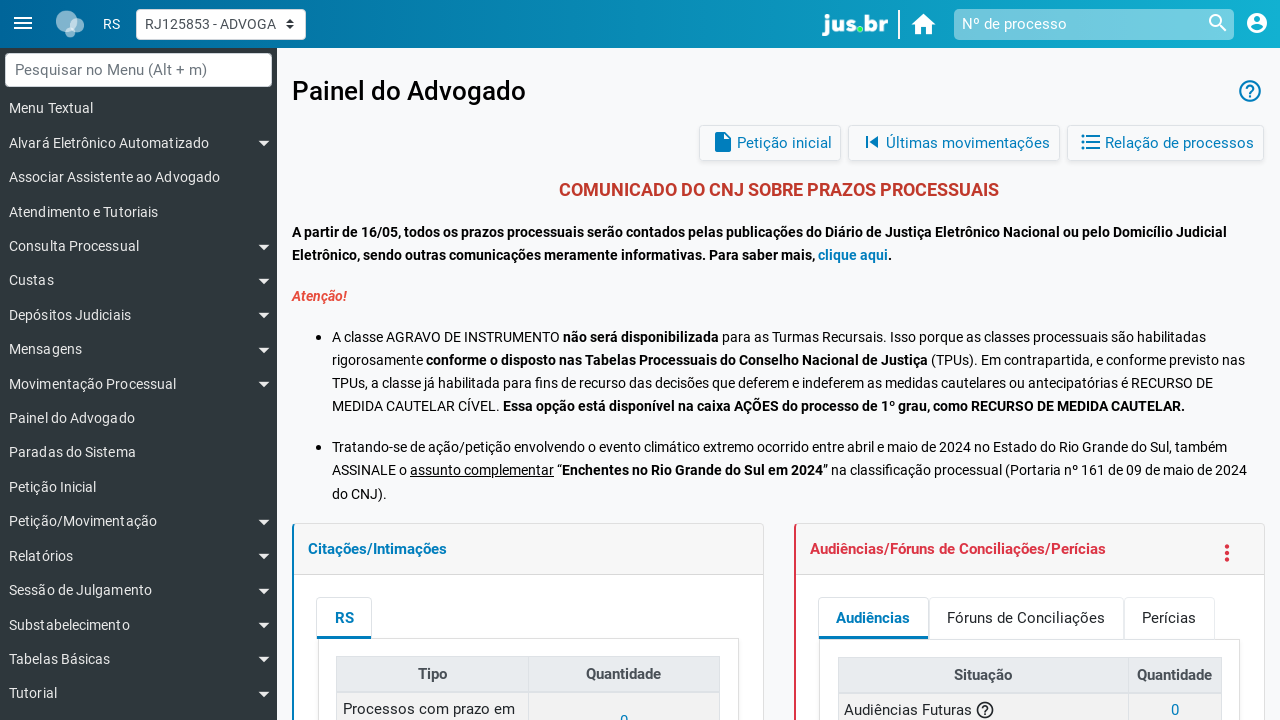
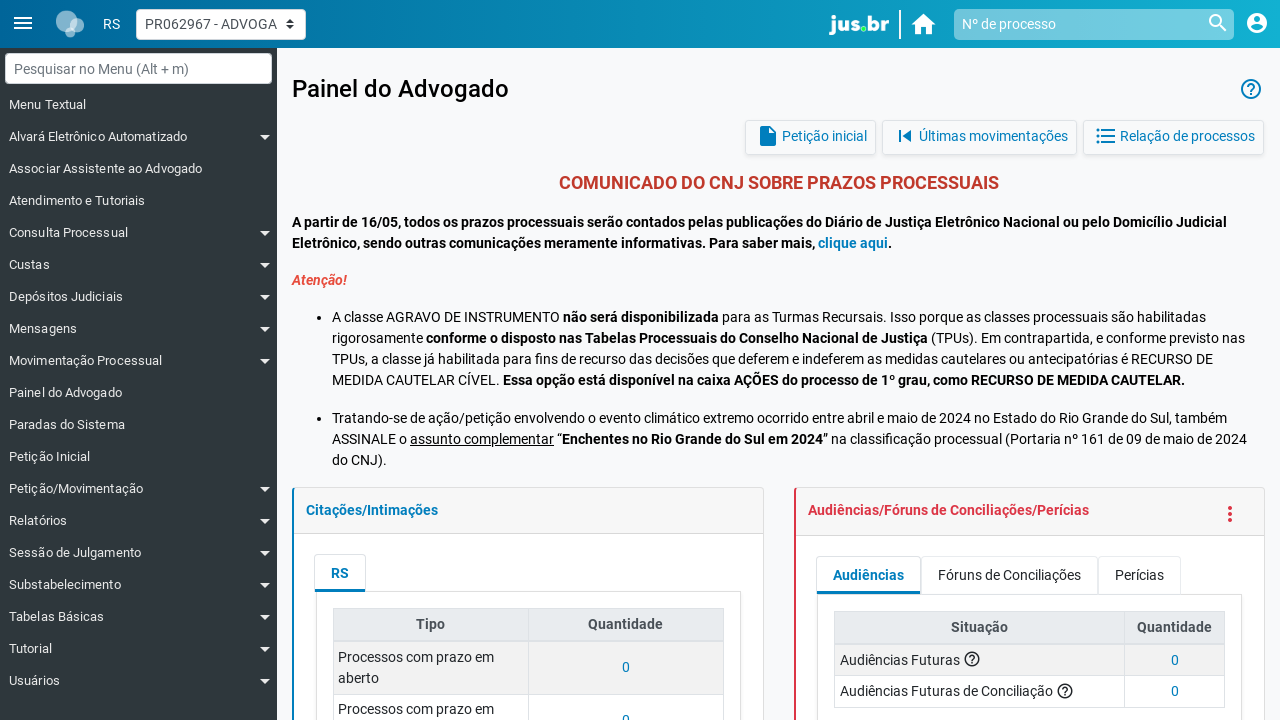
update

diff --git a/eproc_automation.py b/eproc_automation.py
@@ -311,7 +311,35 @@ def abrir_sessao(p):
     login(page)
     context.storage_state(path=STORAGE_STATE_PATH)
 
+    _verificar_cadastro_pendente(page)
+
     return browser, context, page
+
+
+def _verificar_cadastro_pendente(page):
+    """
+    Algumas contas, ao logar, são redirecionadas para uma tela
+    OBRIGATÓRIA de "Alterar Cadastro" (atualização cadastral -- CPF,
+    RG, dados pessoais, etc.) antes de liberar o resto do sistema.
+    Confirmado em execução real: nesse caso o menu "Consulta
+    Processual" não existe na tela, e o crawler ficava travado 30s
+    tentando clicar num link que não está lá, com uma mensagem de erro
+    confusa (timeout genérico).
+
+    Detectamos isso explicitamente para falhar rápido, com uma
+    mensagem clara -- essa é uma ação que exige revisão humana
+    (confirmar/corrigir dados cadastrais pessoais), não algo que o
+    crawler deve preencher e salvar sozinho.
+    """
+    titulo = page.query_selector("h1, h2, h3")
+    if titulo and "Alterar Cadastro" in titulo.inner_text():
+        raise RuntimeError(
+            "A conta caiu numa tela OBRIGATÓRIA de 'Alterar Cadastro' "
+            "(atualização cadastral) logo após o login -- o e-Proc exige "
+            "que os dados pessoais sejam revisados/confirmados manualmente "
+            "antes de liberar o resto do sistema. Entre nessa conta pelo "
+            "navegador comum, complete o cadastro, e rode o crawler de novo."
+        )
 
 
 def main():

diff --git a/run_crawler.py b/run_crawler.py
@@ -249,7 +249,14 @@ def main():
         try:
             while True:
                 print("\n########## Iniciando novo ciclo de varredura ##########")
-                executar_ciclo(page, pagina_empresa, db, config)
+                try:
+                    executar_ciclo(page, pagina_empresa, db, config)
+                except Exception as e:
+                    print(f"\n✗ Erro não tratado no ciclo: {e}")
+                    os.makedirs("output", exist_ok=True)
+                    page.screenshot(path="output/erro_ciclo_geral.png")
+                    print("Screenshot salvo em output/erro_ciclo_geral.png para diagnóstico.")
+                    raise
                 print(f"\nCiclo concluído. Aguardando {intervalo}s até o próximo ciclo...")
                 time.sleep(intervalo)
         finally:
